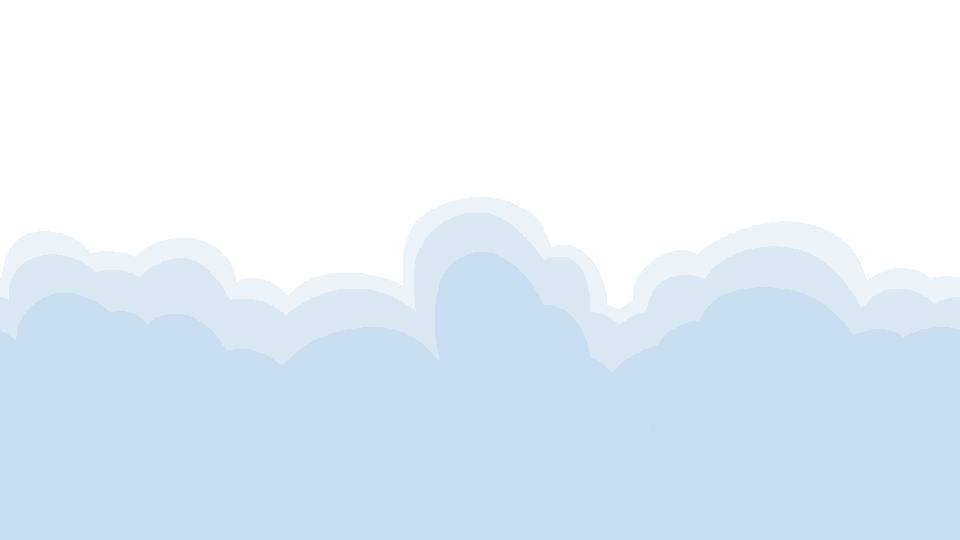
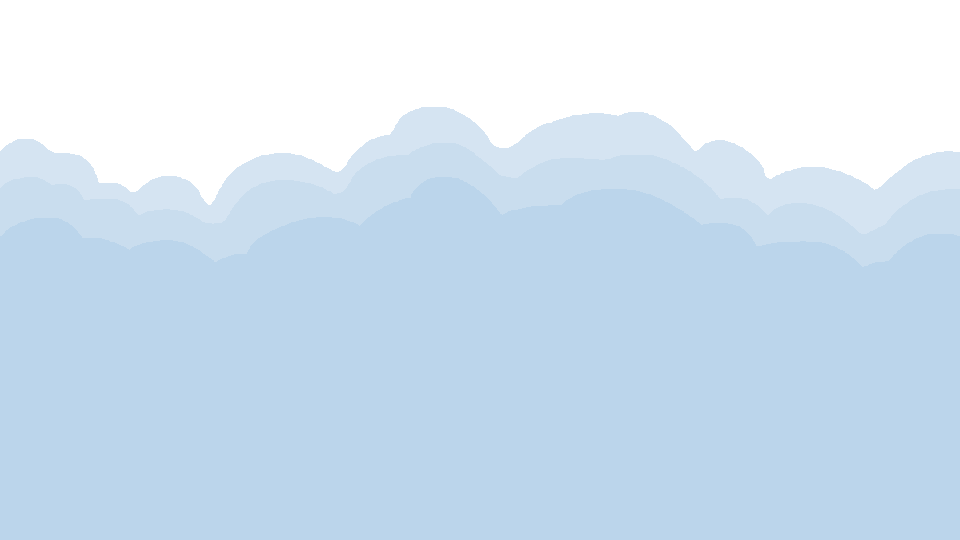
fixed background layers

diff --git a/models/level.class.js b/models/level.class.js
@@ -28,24 +28,23 @@ class Level {
     loadBackground() {
         for (let i = 0; i < LEVEL_SIZE; i++) {
             let t = i * this.translation / 64;
-            let background = new Background(t);
-
-            // create layer with background and delete unneccessary properties ...
-            // fix missing layer ...
-            // fix bird ...
-
-            // for (let j = 0; j < background.layers.length; j++) {
-            //     let layer = new DrawableObject(background.x / 64, background.y / 64, background.width, background.height);
-            //     let path = background.layers[j];
-            //     layer.img = background.imageCache[path];
-            //     delete layer.imageCache;
-            //     delete layer.patternFile;
-            //     // console.log(layer);
-            //     this.BACKGROUND.push(layer);
-            // }
-
-            this.BACKGROUND.push(background);
+            for (let j = 0; j < LEVEL_SIZE; j++) {
+                let layer = new Background(t);
+                let path = layer.layers[j];
+                layer.img = layer.imageCache[path];
+                this.deleteLayerProperties(layer);
+                this.BACKGROUND.push(layer);
+            }
         }
+    }
+
+
+    deleteLayerProperties(layer) {
+        delete layer.cover;
+        delete layer.directory;
+        delete layer.imageCache;
+        delete layer.layers;
+        delete layer.patternFile;
     }
 
 

diff --git a/models/background.class.js b/models/background.class.js
@@ -13,8 +13,8 @@ class Background extends DrawableObject {
 
 
     setLayers() {
-        let amount = this.getFileId('background5.png');
-        for (let i = 0; i < amount; i++) {
+        let amount = +this.getFileId('background6.png');
+        for (let i = 1; i < amount + 1; i++) {
             let path = `img/background/background${i}.png`;
             this.layers.push(path);
         }
